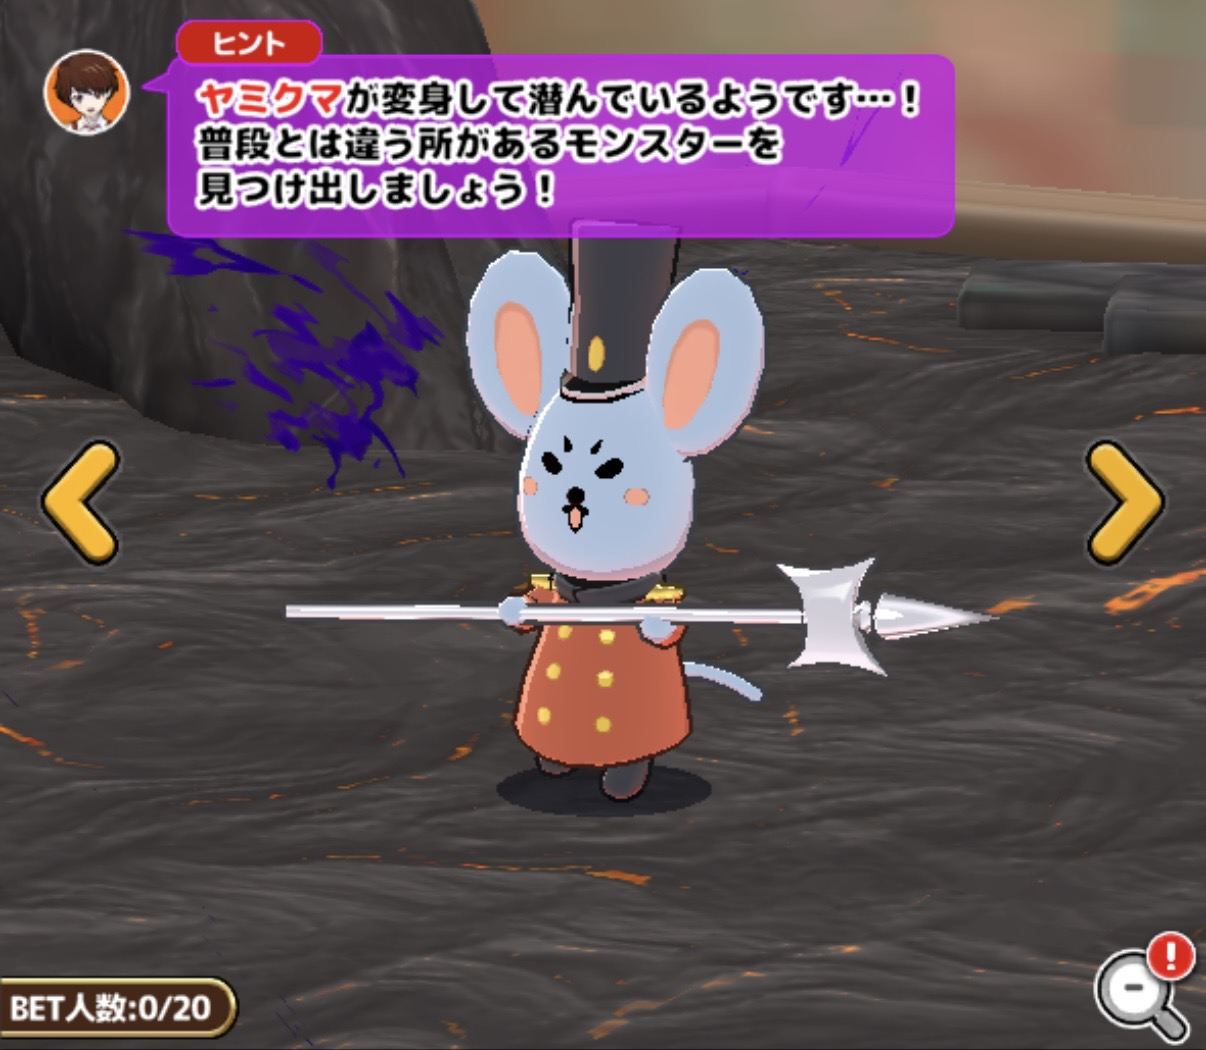
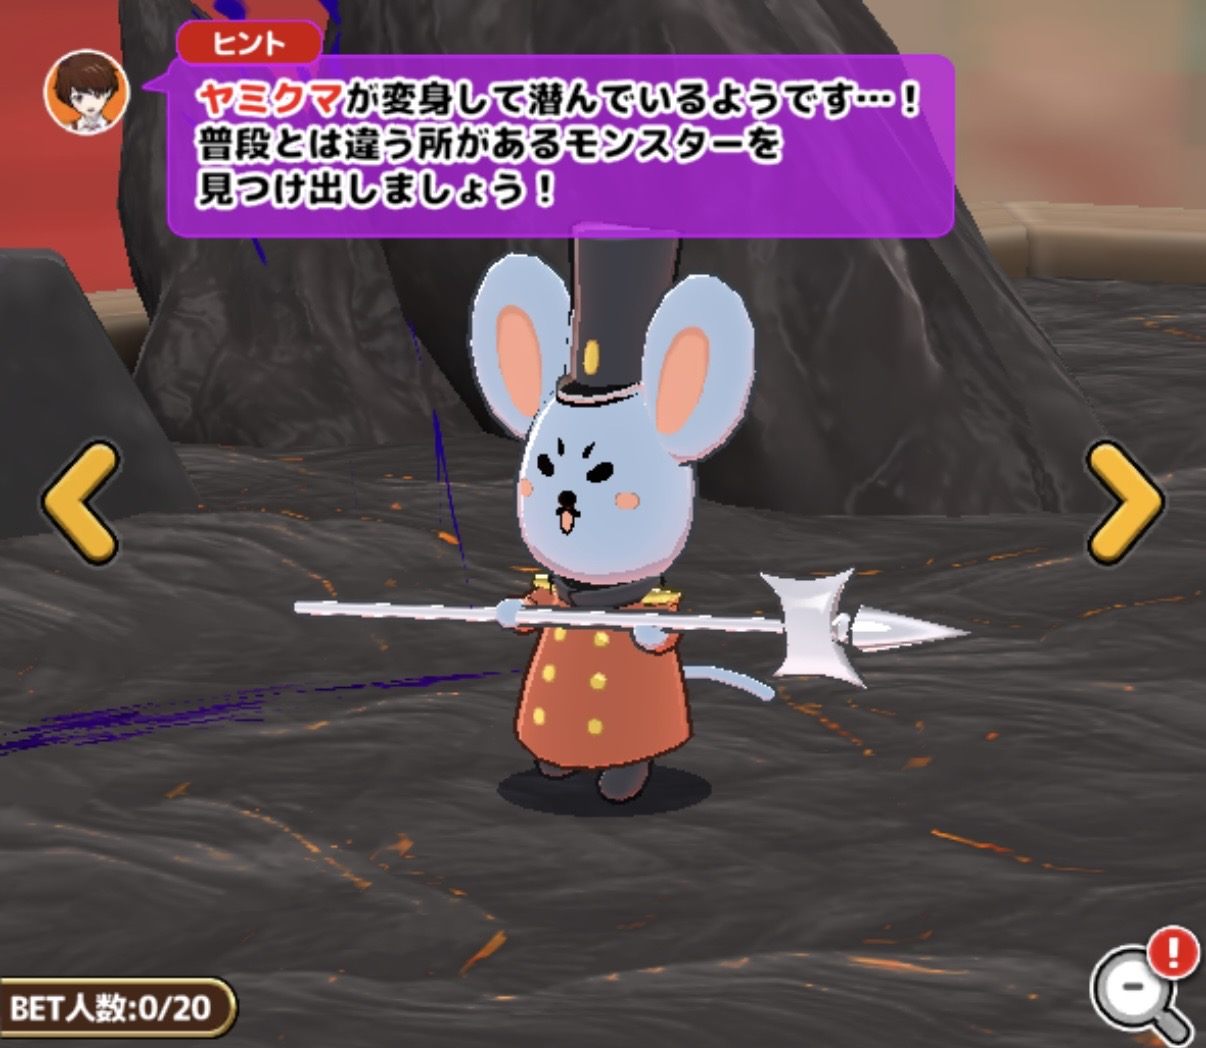
update:ライアード画像更新

diff --git a/index.html b/index.html
@@ -37,8 +37,8 @@
   <link rel="preconnect" href="https://fonts.googleapis.com">
   <link rel="preconnect" href="https://fonts.gstatic.com" crossorigin>
   <link href="https://fonts.googleapis.com/css2?family=Dela+Gothic+One&family=Zen+Antique&family=Noto+Sans+JP:wght@400;500;700;900&display=swap" rel="stylesheet">
-  <link rel="stylesheet" href="style.css?v=1.1.8">
-  <link rel="stylesheet" href="game.css?v=1.1.8">
+  <link rel="stylesheet" href="style.css?v=1.1.9">
+  <link rel="stylesheet" href="game.css?v=1.1.9">
 </head>
 <body>
 
@@ -332,9 +332,9 @@
     </svg>
   </div>
 
-  <script src="data-normal.js?v=1.1.8" defer></script>
-  <script src="data-anomaly.js?v=1.1.8" defer></script>
-  <script src="script.js?v=1.1.8" defer></script>
-  <script src="game.js?v=1.1.8" defer></script>
+  <script src="data-normal.js?v=1.1.9" defer></script>
+  <script src="data-anomaly.js?v=1.1.9" defer></script>
+  <script src="script.js?v=1.1.9" defer></script>
+  <script src="game.js?v=1.1.9" defer></script>
 </body>
 </html>

diff --git a/data-anomaly.js b/data-anomaly.js
@@ -383,7 +383,7 @@ const ANOMALY_DATA = {
     },
     {
       note: "サイズ",
-      point: "通常時と比べてわずかにスリム。<br>単体での判別は難しいので消去法がおすすめ。<br>比較画像の角度が異なるため槍の長さで判別可能かは検証中。",
+      point: "通常時と比べてわずかにスリム。<br>単体での判別は難しいので消去法がおすすめ。",
       compareIndex: 2
     },
     {
@@ -596,6 +596,11 @@ const ANOMALY_DATA = {
       note: "サイズ",
       point: "サイズが通常時と比べて大きい。",
       compareIndex: 1
+    },
+    {
+      note: "サイズ",
+      point: "サイズが通常時と比べて大きい。",
+      compareIndex: 2
     },
   ],
   m23: [
